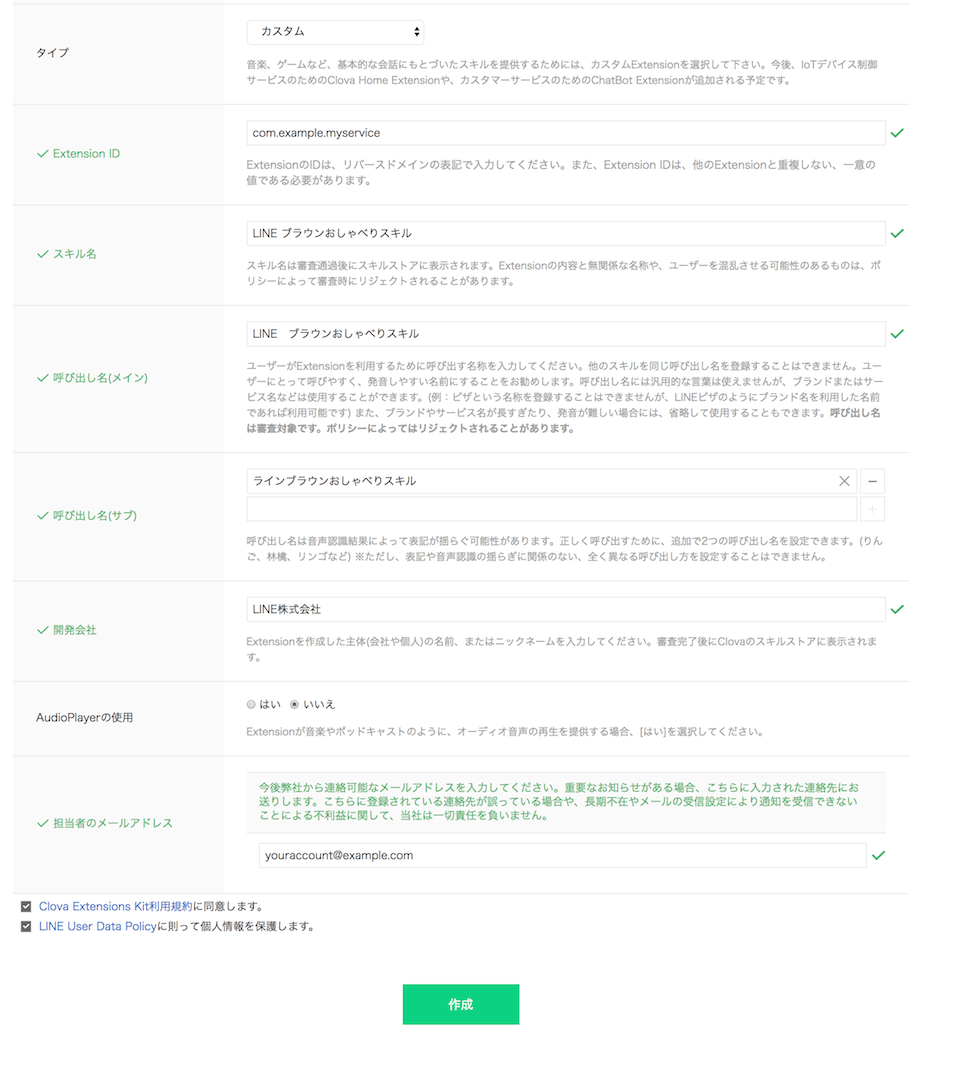
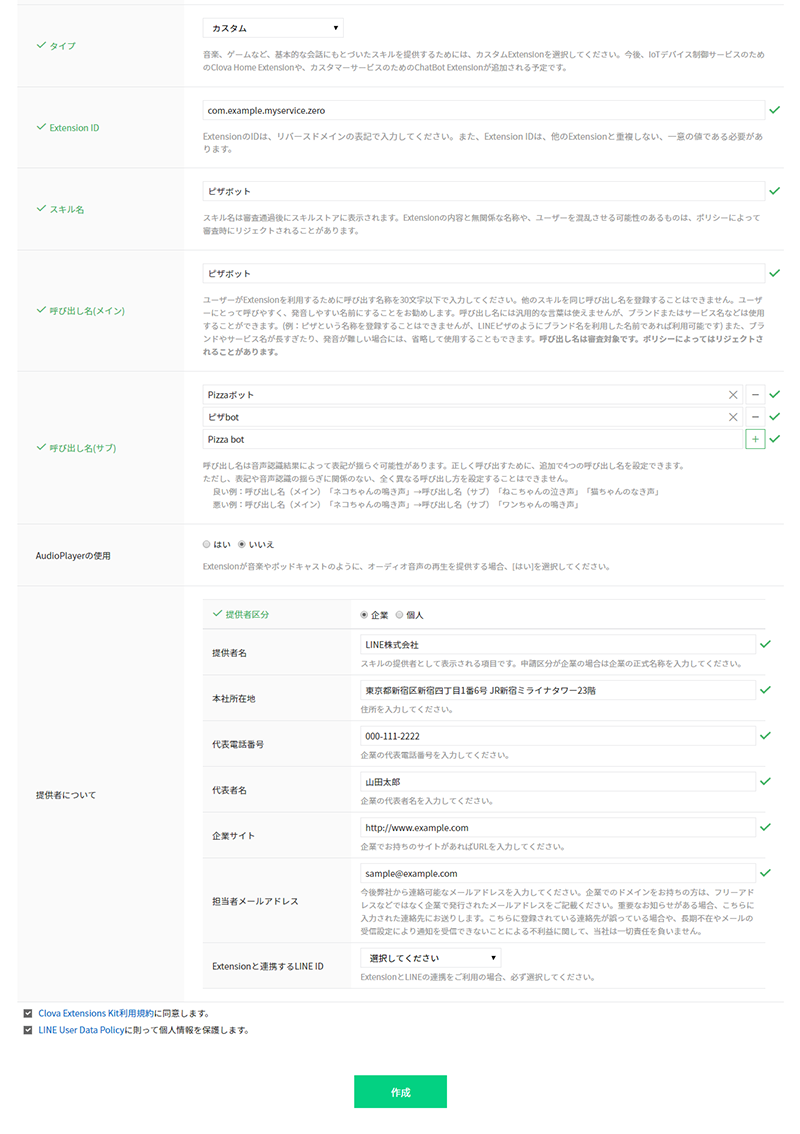
Modify "Create Skill Channel"
- Modify "Create Skill Channel"
- Replace images for Register Extension, Dploy Extension.

Former-commit-id: fb6771e5ce4a1b25936fe4608a985e26a7d5c058 [formerly 98713efc5d4349433be71dbf08b47fe9b646ba2c]
Former-commit-id: c0283fa695629e4879e952252dc058fd9ffa5749

diff --git a/ja/DevConsole/Guides/CEK/Create_Channel.md b/ja/DevConsole/Guides/CEK/Create_Channel.md
@@ -33,36 +33,23 @@ LINE Developersコンソールでチャネルを作成します。
 <div class="danger">
   <p><strong>注意</strong></p>
   <p>すでにLINE公式アカウントをお持ちの場合は、チャネル発行のフローが異なります。
-  お手数ですが、<a href="https://partner.line.me/ja/partner/join" target="_blank"> LINE Partner </a> よりお問い合わせください。</p>
+  お手数ですが、<a href="https://partner.line.me/ja/partner/join" target="_blank"> LINE Partner </a> よりお問い合わせください。</p>_
 </div>
 
-1. **プロバイダーリスト** をクリックします。  
-![](/DevConsole/Resources/Images/DevConsole-Provider_List_1.png)
-
-2. プロバイダーを選択します。  
-![](/DevConsole/Resources/Images/DevConsole-Provider_List_2.png)
-
-  あらかじめ作成したプロバイダーを使用する場合は、当該のプロバイダーをクリックし、**新規チャネル作成** をクリックします。  
+1. 新規チャネル作成画面で、プロバイダーを選択します。あらかじめ作成したプロバイダーを使用する場合は、当該のプロバイダーをラジオボタンで選択し、**次のページ** をクリックします。  
 ![](/DevConsole/Resources/Images/DevConsole-Create_Channel_1.png)
 
-  新規にプロバイダーを作成する場合は、**新規プロバイダー作成** をクリックします。新しく追加するプロバイダー名を入力して **確認する** ボタンをクリックします。  
+  新規にプロバイダーを作成する場合は、ラジオボタンで **新規プロバイダー作成** を選択すると入力フォームが表示されます。新しく追加するプロバイダー名を入力して **次のページ**  をクリックします。  
 ![](/DevConsole/Resources/Images/DevConsole-Create_Channel_2.png)
 
-  入力したプロバイダー名を確認して、**作成する** をクリックします。  
+    <div class="note">
+      <p><strong>メモ</strong></p>
+      <p>プロバイダーとは、アプリを提供する組織のことです。
+      ご自分の名前、あるいは企業名などを入力してください。</p>
+    </div>  
+
+2. **チャネル名** を入力し、**入力内容を確認する** をクリックします。  
 ![](/DevConsole/Resources/Images/DevConsole-Create_Channel_3.png)
-
-  <div class="note">
-    <p><strong>メモ</strong></p>
-    <p>プロバイダーとは、アプリを提供する組織のことです。
-    ご自分の名前、あるいは企業名などを入力してください。</p>
-  </div>  
-
-3. **新規チャネル作成** で **Clova** を選択します。  
-  ![](/DevConsole/Resources/Images/DevConsole-Select_Channel_Type.png)
-
-
-4. **チャネル名** を入力し、**入力内容を確認する** をクリックします。  
-![](/DevConsole/Resources/Images/DevConsole-Create_Channel_4.png)
 
     <div class="note">
       <p><strong>メモ</strong></p>
@@ -70,7 +57,7 @@ LINE Developersコンソールでチャネルを作成します。
       Clovaで提供するサービスの名前などを入力してください。</p>
     </div>
 
-5. 内容を確認し、**作成してClova Developer Centerに移動** をクリックします。  
-![](/DevConsole/Resources/Images/DevConsole-Create_Channel_5.png)
+3. 内容を確認し、**作成してClova Developer Centerに移動** をクリックします。  
+![](/DevConsole/Resources/Images/DevConsole-Create_Channel_4.png)
 
-6. チャネルの作成が完了すると、Clova Developer Center β に遷移します。
+4. チャネルの作成が完了すると、Clova Developer Center β に遷移します。
